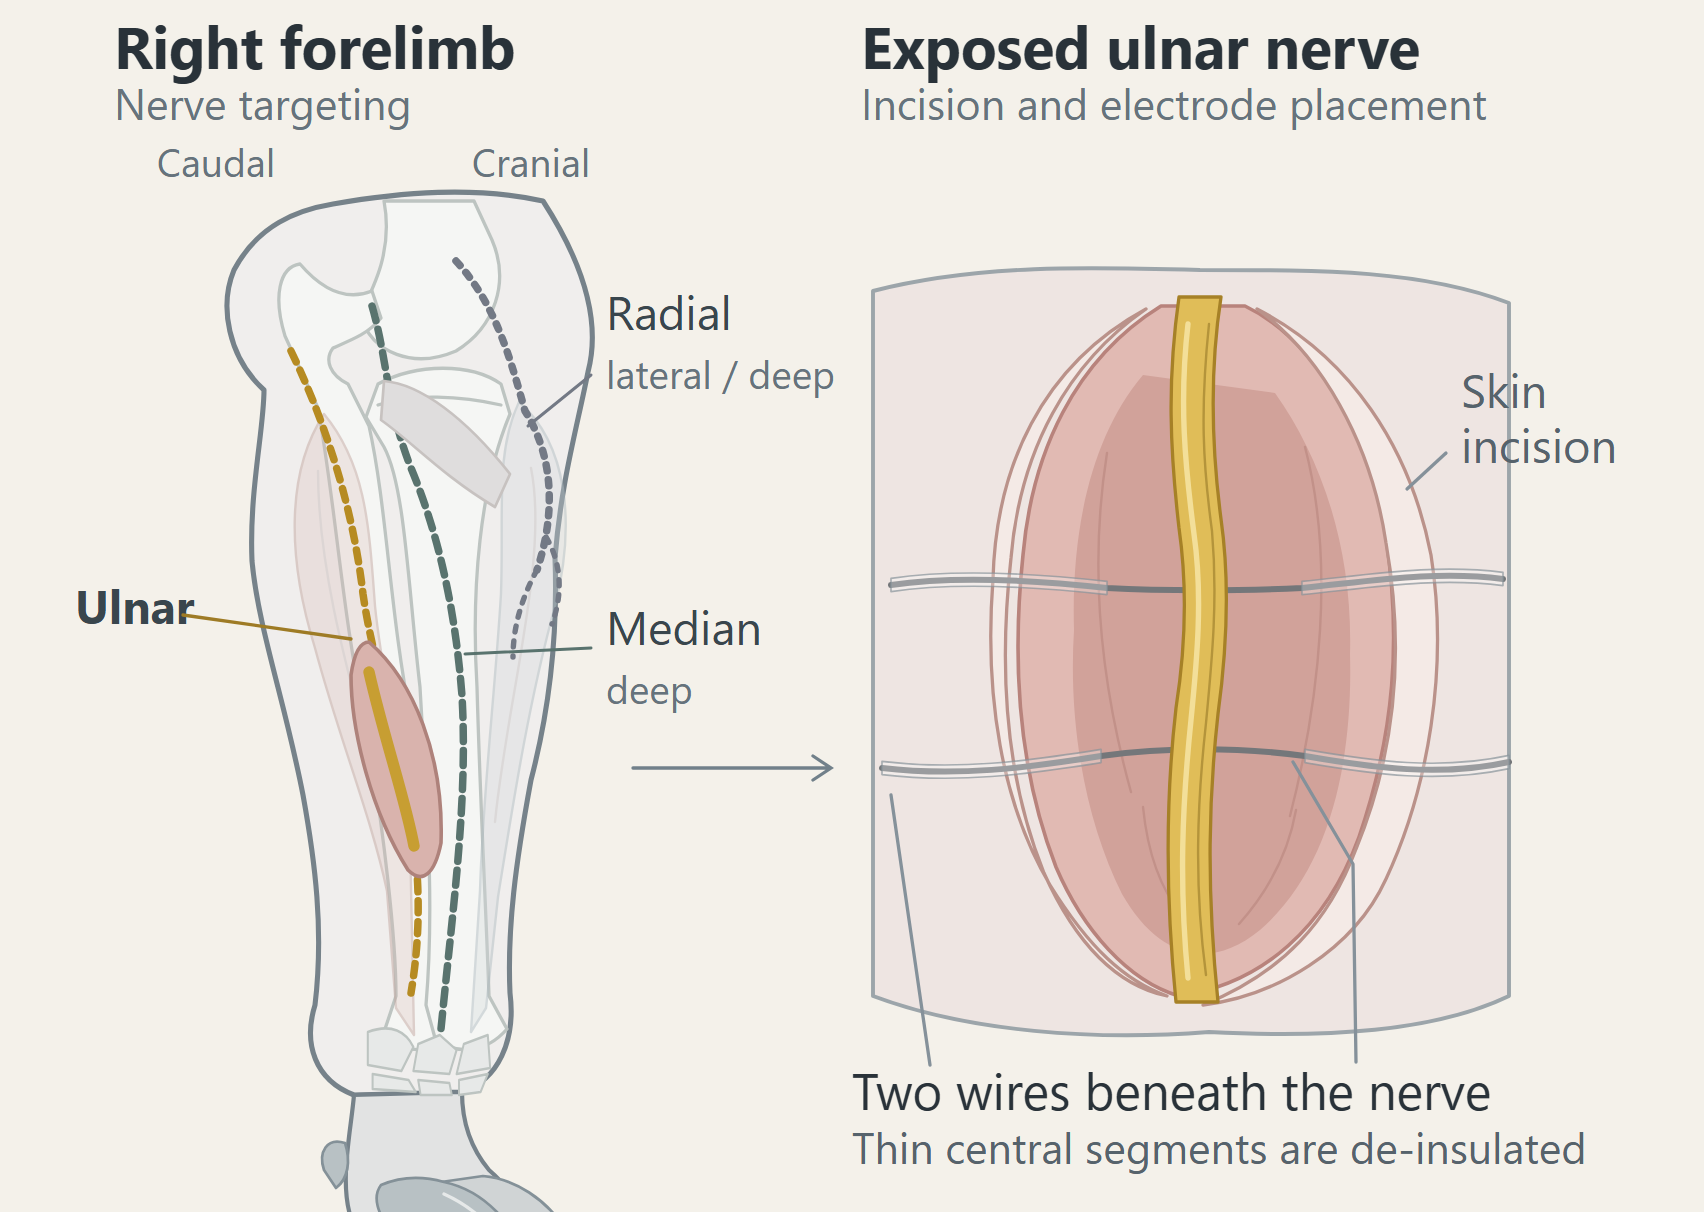
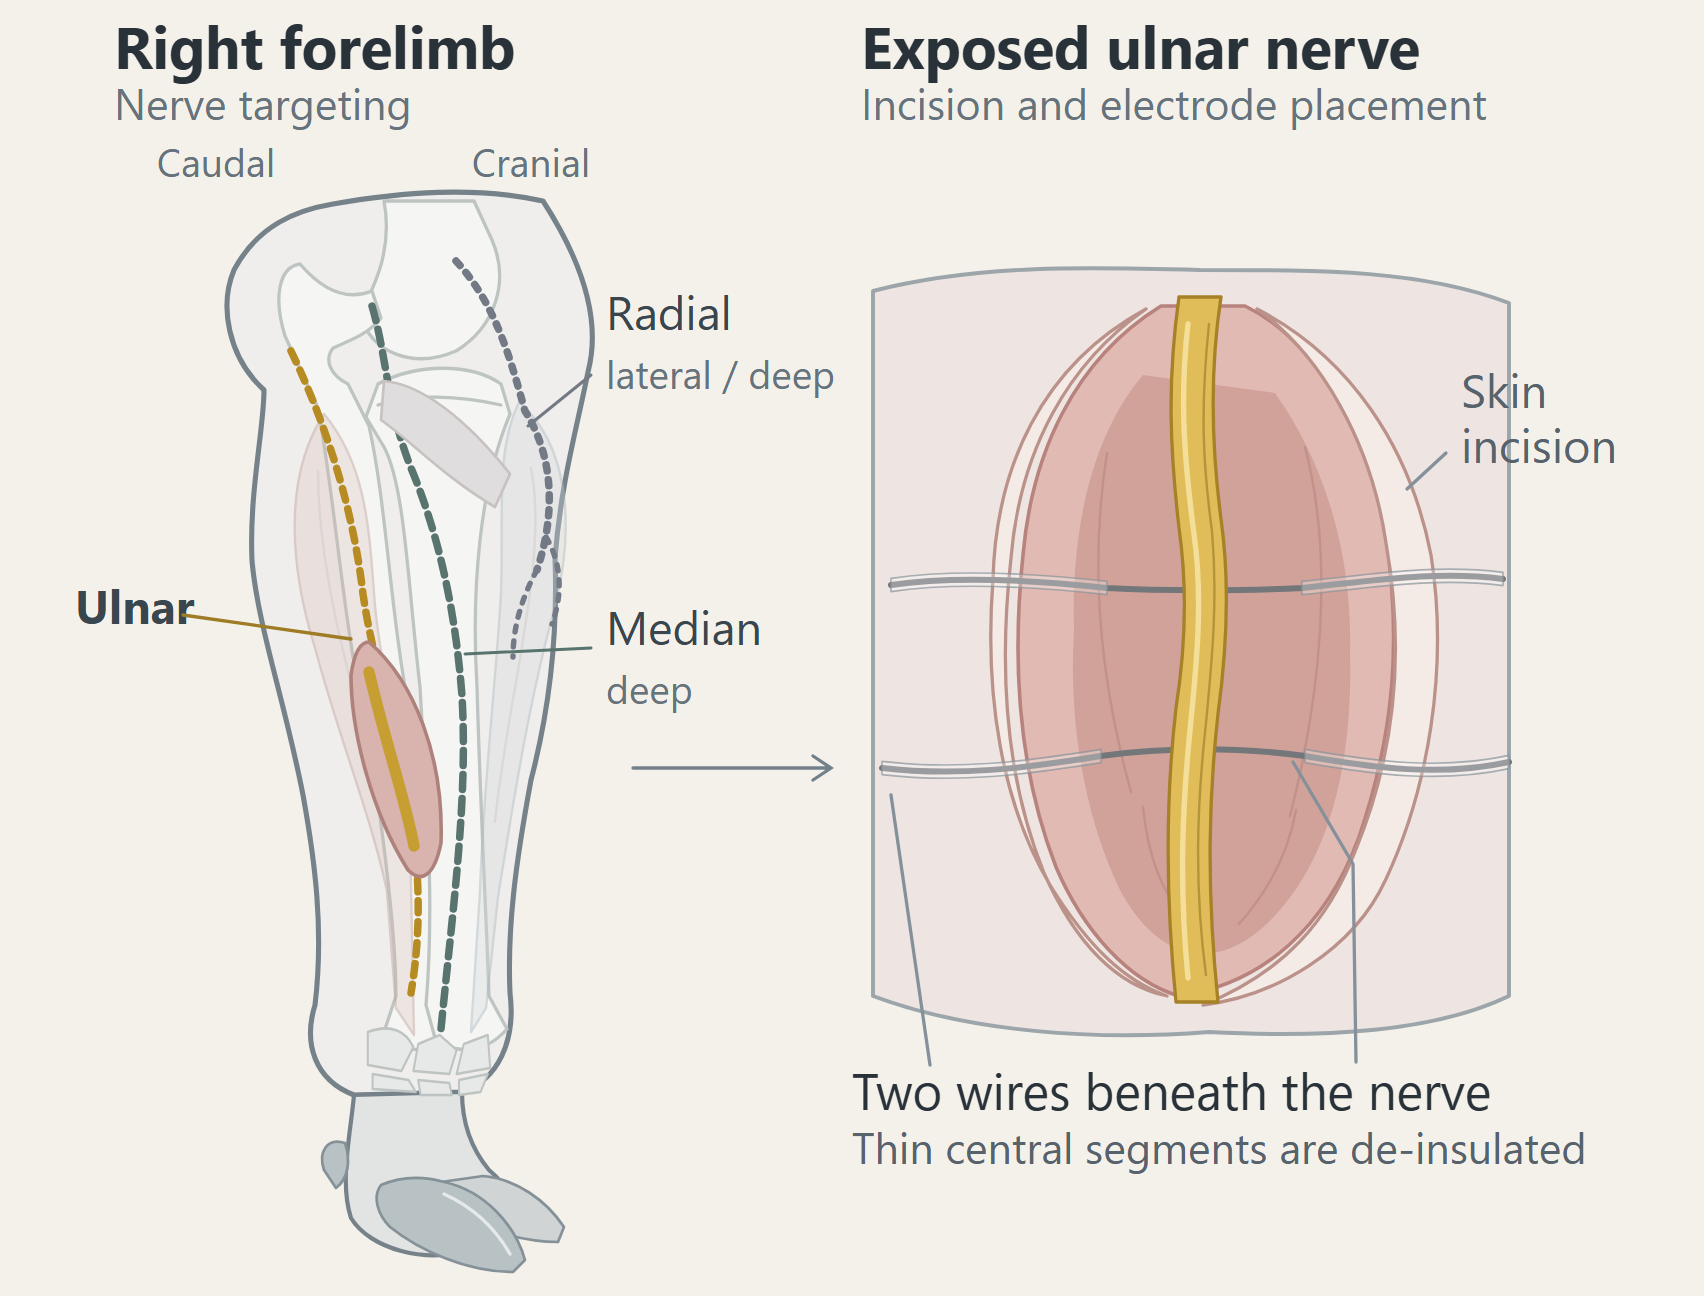
Show the whole hoof in the forelimb schematic

diff --git a/docs/index.html b/docs/index.html
@@ -39,7 +39,7 @@
 
     <figure class="poster-figure pair">
       <a href="figures/poster-fig1a-recording-sites.png"><span class="panel">A</span><img src="figures/poster-fig1a-recording-sites.png" width="2220" height="1350" alt="Dorsal view of the pig brain with the micro-ECoG arrays over S1 and PFC and the ACC entry point near the midline, and a medial view of the left hemisphere with the depth array reaching the anterior cingulate target 10 to 14 mm below the cortical entry."></a>
-      <a href="figures/poster-fig1b-stimulation.png"><span class="panel">B</span><img src="figures/poster-fig1b-stimulation.png" width="1704" height="1212" alt="The right forelimb with the ulnar, median and radial nerves, and the exposed ulnar nerve with two stimulation wires beneath it."></a>
+      <a href="figures/poster-fig1b-stimulation.png"><span class="panel">B</span><img src="figures/poster-fig1b-stimulation.png" width="1704" height="1296" alt="The right forelimb with the ulnar, median and radial nerves, and the exposed ulnar nerve with two stimulation wires beneath it."></a>
       <figcaption>Fig. 1. Recording sites (A) and ulnar-nerve stimulation (B).</figcaption>
     </figure>
 
